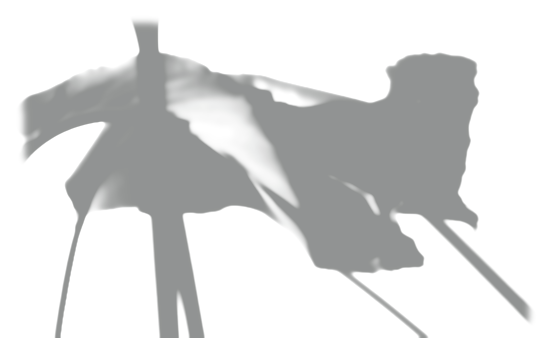
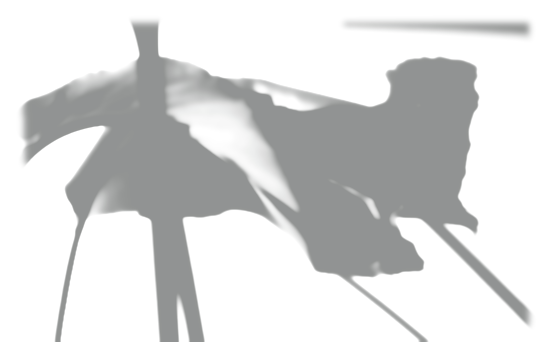
Concept: panes run off the right edge, and the light slowly travels across the wall

diff --git a/index.html b/index.html
@@ -23,10 +23,12 @@
   <div class="home">
     <div class="light" aria-hidden="true">
       <div class="light__stage">
-        <img class="light__window" src="Assets/home/light-window.webp" alt="" width="1600" height="1066" decoding="async" />
-        <img class="light__plant" src="Assets/home/light-plant-upper.webp" alt="" width="649" height="634" decoding="async" style="left:50.375%;top:0.000%;width:40.562%;height:59.475%;--ox:50.7%;--oy:175.1%;--a0:-0.9deg;--a1:1.2deg;--dur:12s;--delay:-4s" />
-        <img class="light__plant" src="Assets/home/light-plant-lower.webp" alt="" width="551" height="338" decoding="async" style="left:59.875%;top:68.293%;width:34.438%;height:31.707%;--ox:31.2%;--oy:116.0%;--a0:-1.2deg;--a1:1.5deg;--dur:9.5s;--delay:-2s" />
-        <img class="light__plant" src="Assets/home/light-plant-left.webp" alt="" width="212" height="300" decoding="async" style="left:32.438%;top:71.857%;width:13.250%;height:28.143%;--ox:61.8%;--oy:114.7%;--a0:-1.4deg;--a1:1.2deg;--dur:11s;--delay:-7s" />
+        <div class="light__drift">
+          <img class="light__window" src="Assets/home/light-window.webp" alt="" width="1600" height="1066" decoding="async" />
+          <img class="light__plant" src="Assets/home/light-plant-upper.webp" alt="" width="673" height="634" decoding="async" style="left:50.375%;top:0.000%;width:42.062%;height:59.475%;--ox:48.9%;--oy:175.1%;--a0:-0.9deg;--a1:1.2deg;--dur:12s;--delay:-4s" />
+          <img class="light__plant" src="Assets/home/light-plant-lower.webp" alt="" width="551" height="342" decoding="async" style="left:59.875%;top:67.917%;width:34.438%;height:32.083%;--ox:31.2%;--oy:115.8%;--a0:-1.2deg;--a1:1.5deg;--dur:9.5s;--delay:-2s" />
+          <img class="light__plant" src="Assets/home/light-plant-left.webp" alt="" width="212" height="300" decoding="async" style="left:32.438%;top:71.857%;width:13.250%;height:28.143%;--ox:61.8%;--oy:114.7%;--a0:-1.4deg;--a1:1.2deg;--dur:11s;--delay:-7s" />
+        </div>
       </div>
     </div>
 

diff --git a/home.css b/home.css
@@ -79,11 +79,22 @@ button { font: inherit; color: inherit; background: none; border: 0; padding: 0;
   position: absolute;
   left: 50%;
   top: 50%;
-  width: max(100cqw, calc(100cqh * 1.50094));
+  width: max(112cqw, calc(112cqh * 1.50094));   /* a little oversize so the drift never shows an edge */
   aspect-ratio: 1600 / 1066;
   transform: translate(-50%, -50%);
 }
 .light__stage img { position: absolute; display: block; max-width: none; user-select: none; }
+.light__drift {
+  position: absolute;
+  inset: 0;
+  will-change: transform;
+  /* the sun moving across the room: the whole pattern of light and shadow travels slowly along the wall */
+  animation: drift 70s ease-in-out infinite alternate;
+}
+@keyframes drift {
+  from { transform: translate3d(-3.4%, 0.8%, 0) rotate(-0.45deg); }
+  to { transform: translate3d(3.6%, -0.6%, 0) rotate(0.5deg); }
+}
 .light__window { left: 0; top: 0; width: 100%; height: 100%; }
 .light__plant {
   will-change: transform;
@@ -95,7 +106,7 @@ button { font: inherit; color: inherit; background: none; border: 0; padding: 0;
   to { transform: rotate(var(--a1)); }
 }
 @media (prefers-reduced-motion: reduce) {
-  .light__plant { animation: none; }
+  .light__plant, .light__drift { animation: none; }
 }
 /* on phones the text runs the full width, so the whole layer sits back instead */
 @media (max-width: 720px) {
